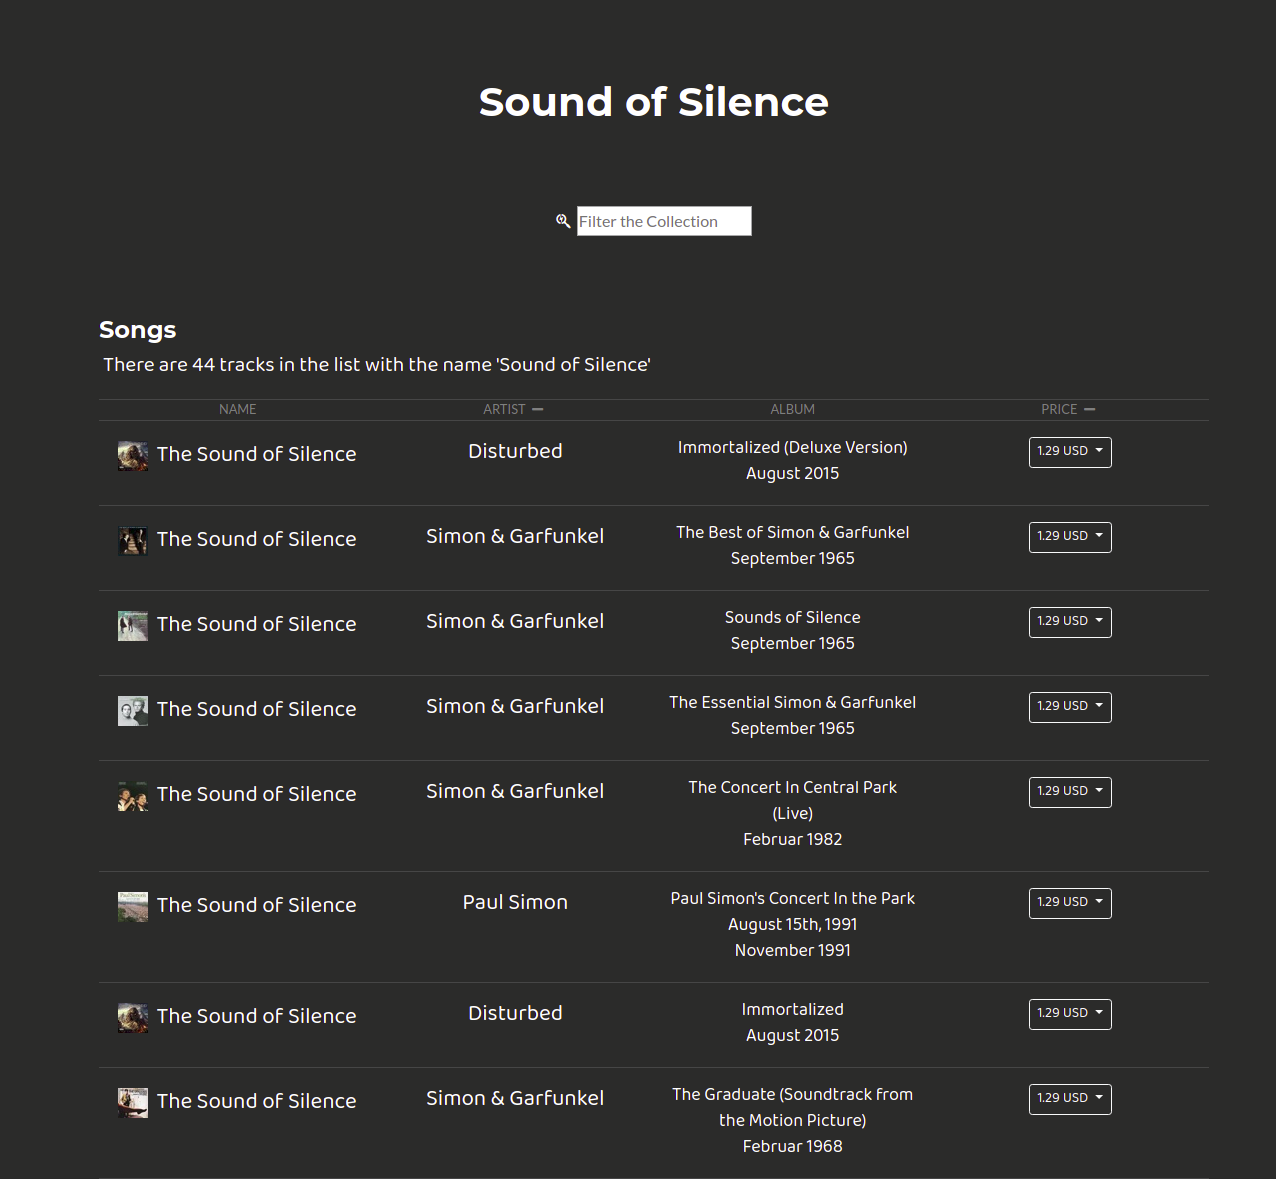
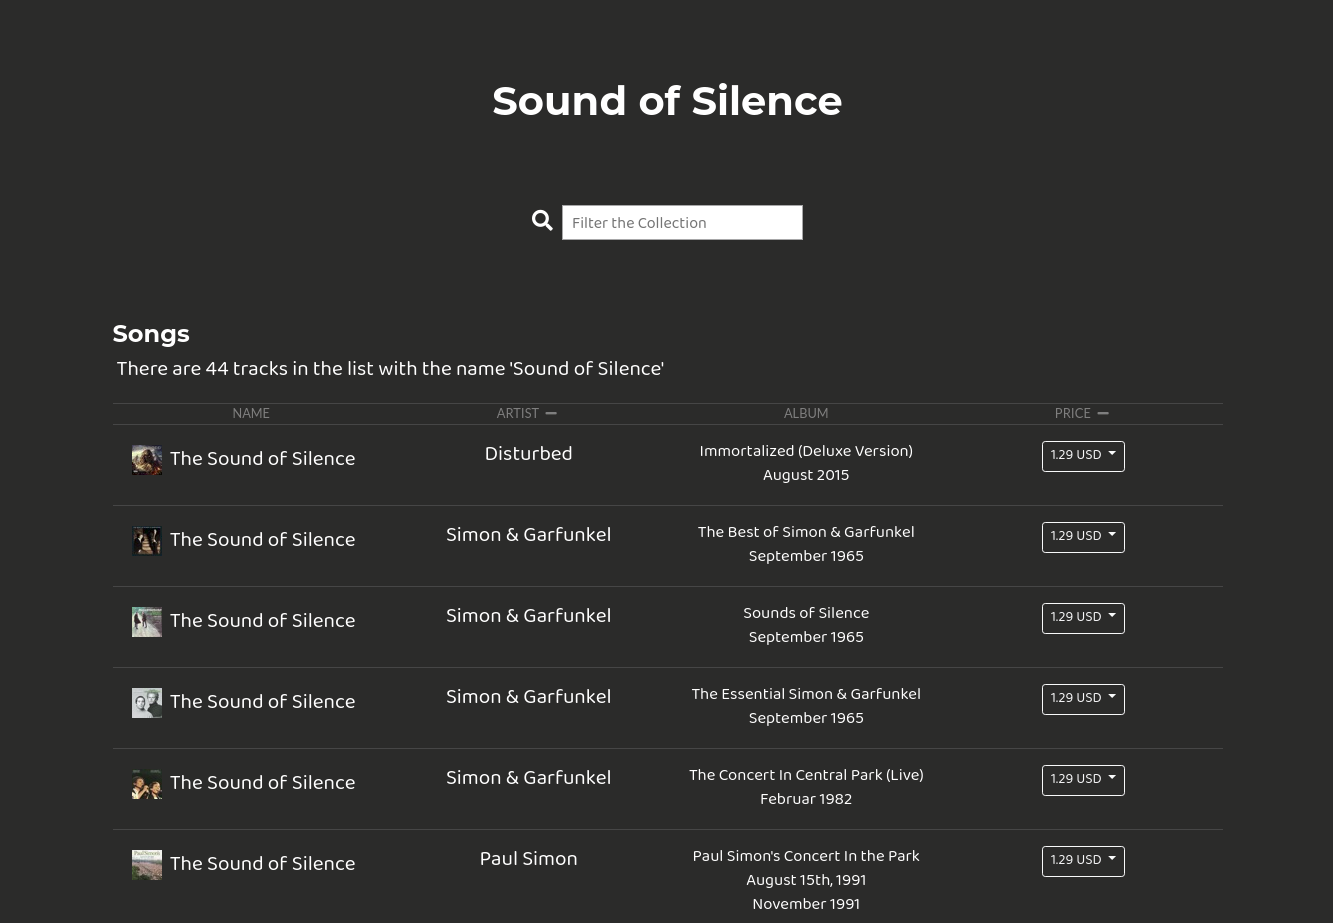
changed font size and readme image

diff --git a/assets/style.css b/assets/style.css
@@ -22,7 +22,7 @@ body > main > div.container > div.counter.row.m-1 {
 
 #output {
   font-family: 'Baloo Tamma 2', cursive;
-  font-size: 1.4rem;
+  font-size: 1.3rem;
 }
 
 h1 {
